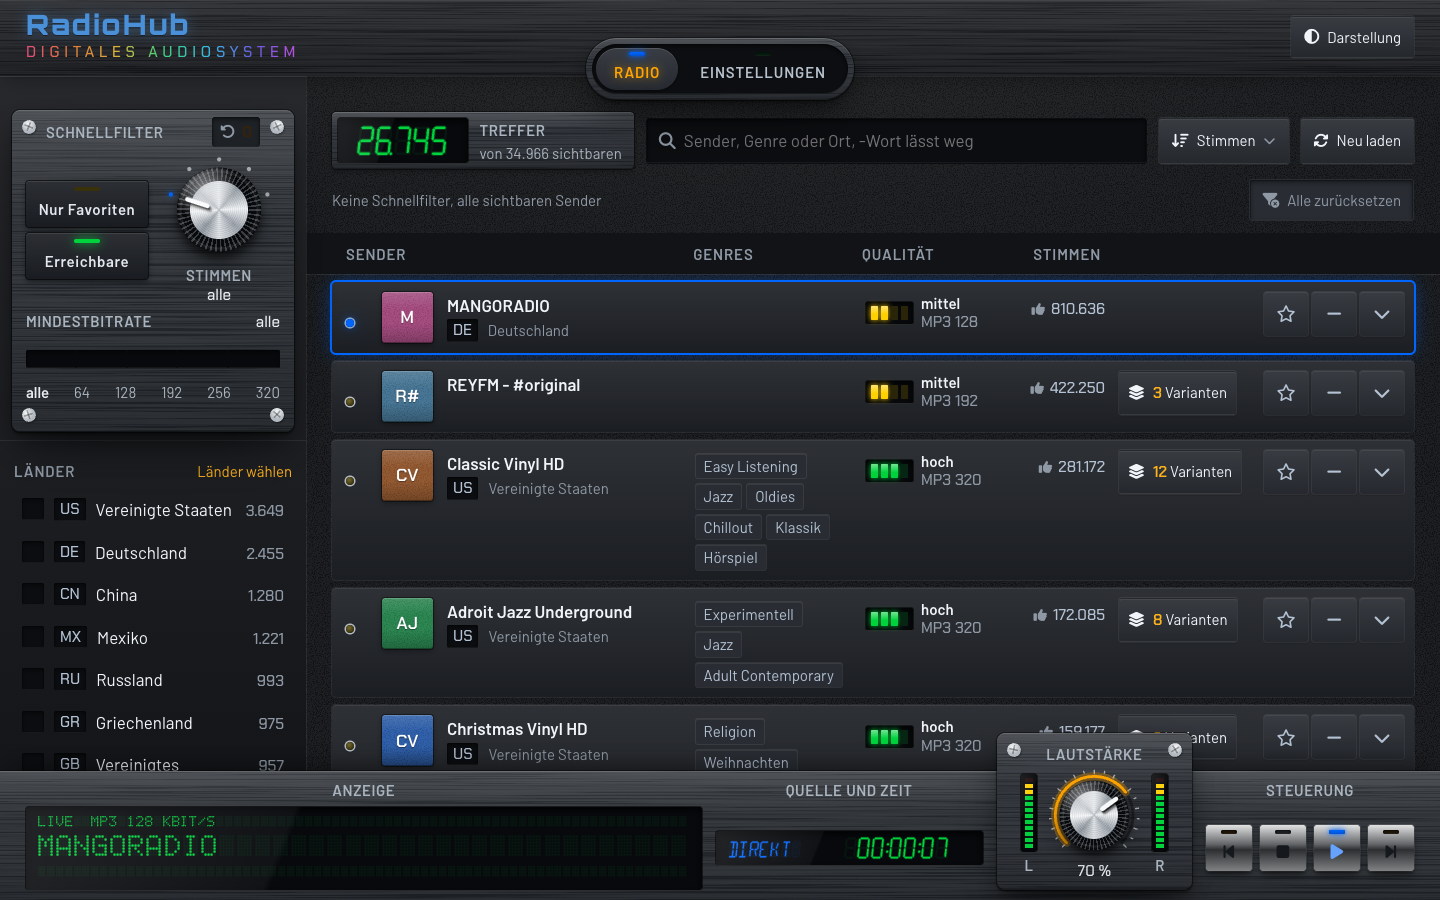
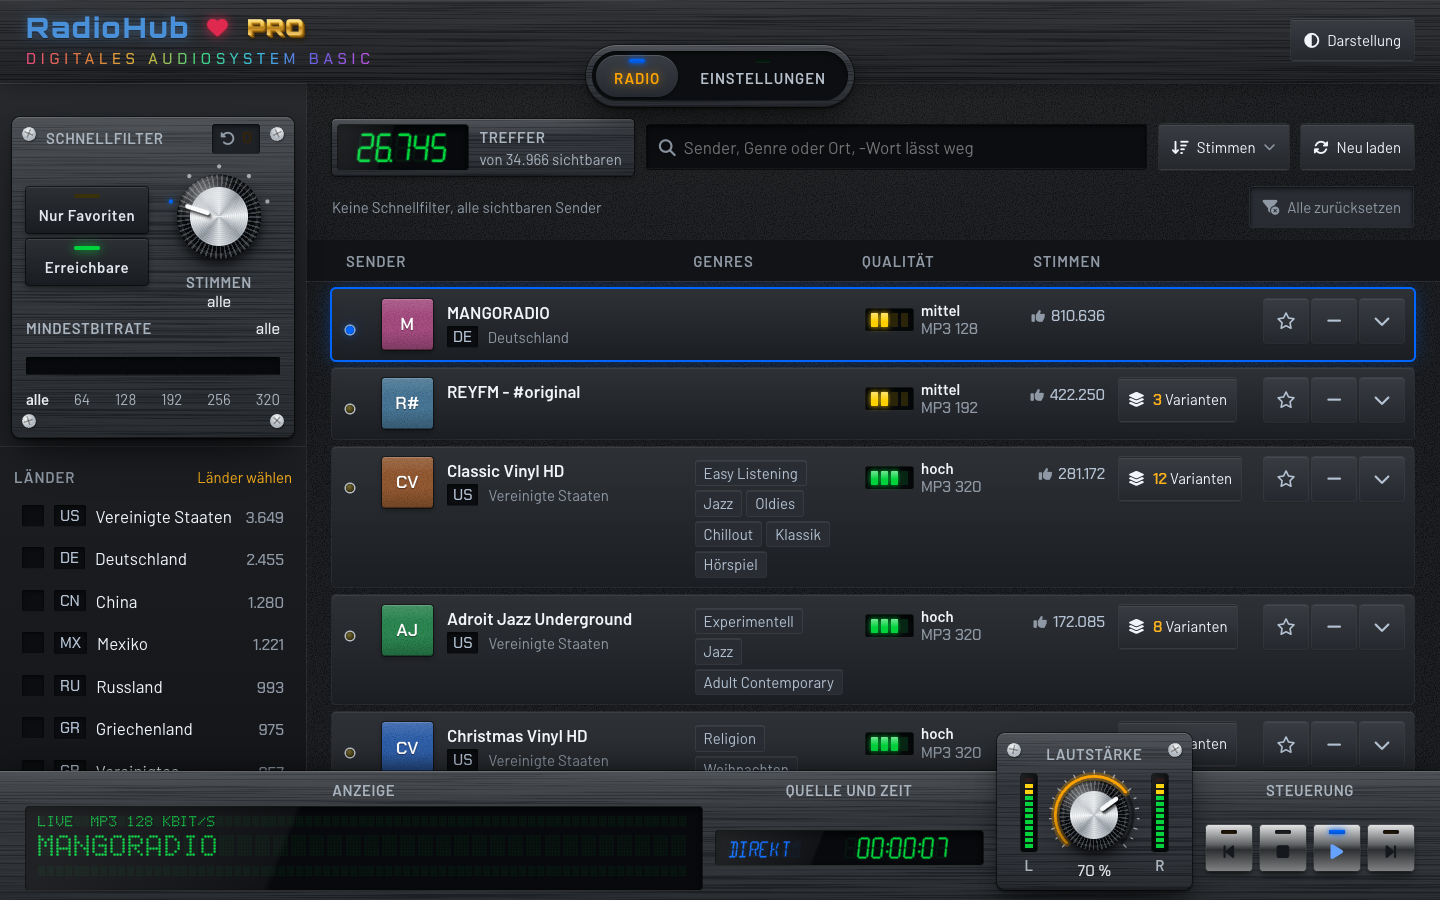
RAD-4: Zwei Ausgaben RadioHub PRO und Basic, PRO-Zeichen in goldenem 3D neben dem Herz
Nutzer 20.11.2026: Die Webversion ist die Basic-Version, PRO die volle Version mit Frontend und Backend; PRO
verweist auf deren Quellcode, das Zeichen in glänzendem, metallischem Gold, Schrift wie RadioHub, neben dem Herz, 3D.

Zeichen PRO (bausteine.css, Marken --rh-gold-*): Schrift des Schriftzugs, Goldfläche mit Lichtkante und Horizont,
Prägung aus gestaffelten Schatten in dunklerem Gold, Glanz beim Zeigen. PRO zeigt es als Zeichen der Ausgabe; Basic
als Verweis auf den Quellcode (lib/ausgabe.ts), dort führt das Herz zum Unterstützen und die Unterzeile sagt Basic.
Kopf mit Eigenschaft Ausgabe statt Backend. Basic heißt im Titel und Manifest "RadioHub Basic"; am Telefon steht der
Verweis in den Einstellungen, der Hinweis zum Wachhalten ohne Weckeransicht.

README mit beiden Ausgaben und neuen Bildern samt PRO-Zeichen.

diff --git a/frontend/src/schale/Kopf.svelte b/frontend/src/schale/Kopf.svelte
@@ -1,23 +1,26 @@
 <script lang="ts">
   // Kopf am Rechner wie im Entwurf (mockups/radio-filter/rechner.html): Schriftzug RadioHub mit Herz (führt zum
   // Unterstützen), Pillen-Navigation mit Tastenlicht, die in den Inhalt ragt, Status (Dienst und Ablage) und die Tafel
-  // Darstellung mit Konto. Das Tastenlicht zeigt, welcher Bereich gerade spielt (blau) oder aufnimmt (rot). Die
-  // Webversion (RAD-4) zeigt nur Radio und Einstellungen, ohne Status, Konto und Unterstützen (ohne Backend).
+  // Darstellung mit Konto. Das Tastenlicht zeigt, welcher Bereich gerade spielt (blau) oder aufnimmt (rot). Neben dem
+  // Herz das Zeichen PRO in Gold (Nutzer 20.11.2026). Die Basic-Webversion (RAD-4) zeigt nur Radio und Einstellungen,
+  // ohne Status und Konto; dort führt PRO zum Quellcode der vollen Version und das Herz zum Unterstützen.
   import { appState, actions } from "../lib/store.svelte.js";
   import { t } from "../lib/i18n.svelte.js";
   import * as sfx from "../lib/uiSounds.js";
   import Darstellung from "./Darstellung.svelte";
   import Konto from "./Konto.svelte";
+  import { PRO_QUELLCODE, UNTERSTUETZEN, type Ausgabe } from "../lib/ausgabe";
 
   type Bereich = "radio" | "recordings" | "podcasts" | "settings";
-  let { online, ablage, bereiche = ["radio", "recordings", "podcasts", "settings"], backend = true }: {
+  let { online, ablage, bereiche = ["radio", "recordings", "podcasts", "settings"], ausgabe = "pro" }: {
     online?: boolean | null;
     ablage?: { verbunden: boolean; meldung?: string } | null;
     /** angebotene Bereiche in der Navigation */
     bereiche?: Bereich[];
-    /** mit Backend: Status von Dienst und Ablage, Konto, Unterstützen */
-    backend?: boolean;
+    /** PRO mit Backend (Status von Dienst und Ablage, Konto), Basic als Webversion ohne */
+    ausgabe?: Ausgabe;
   } = $props();
+  const backend = $derived(ausgabe === "pro");
 
   const ALLE = [
     { id: "radio", text: "schale.radio", symbol: "fa-radio" },
@@ -68,8 +71,11 @@
   <div class="rh-marke">
     <span class="rh-marke-zeile"><a class="rh-logo" href="/radio" onclick={(e) => { e.preventDefault(); actions.navigateTo("/radio"); }}>RadioHub</a>
       {#if backend}<button class="rh-herz" type="button" title={t("app.unterstuetzenTitle")} aria-label={t("app.unterstuetzenTitle")}
-              onclick={() => { actions.navigateTo("/einstellungen/allgemein/bedanken"); sfx.select(); }}><i class="fa-solid fa-heart"></i></button>{/if}</span>
-    <span class="rh-unterzeile">{t("app.digitalAudioSystem")}</span>
+              onclick={() => { actions.navigateTo("/einstellungen/allgemein/bedanken"); sfx.select(); }}><i class="fa-solid fa-heart"></i></button>
+        <span class="rh-pro" title={t("schale.proTitel")}>PRO</span>
+      {:else}<a class="rh-herz" href={UNTERSTUETZEN} target="_blank" rel="noopener" title={t("app.unterstuetzenTitle")} aria-label={t("app.unterstuetzenTitle")}><i class="fa-solid fa-heart"></i></a>
+        <a class="rh-pro" href={PRO_QUELLCODE} target="_blank" rel="noopener" title={t("schale.proVerweis")} aria-label={t("schale.proVerweis")}>PRO</a>{/if}</span>
+    <span class="rh-unterzeile">{t("app.digitalAudioSystem")}{#if !backend}{` ${t("schale.basic")}`}{/if}</span>
   </div>
   <nav class="rh-nav" aria-label={t("schale.bereiche")}><div class="rh-nav-schiene">
     {#each BEREICHE as b, i (b.id)}

diff --git a/frontend/src/stil/bausteine.css b/frontend/src/stil/bausteine.css
@@ -15,12 +15,25 @@ html, body { height: 100%; overflow: hidden; }
 .rh-marke-zeile { display: flex; align-items: center; gap: 10px; }
 .rh-logo { font-family: var(--rh-schrift-logo); font-weight: 900; font-size: calc(var(--appname) + 7px); letter-spacing: .07em; line-height: 1.05; color: var(--rh-logo);
   text-shadow: var(--rh-logo-schein); white-space: nowrap; text-decoration: none; }
-.rh-herz { display: grid; place-items: center; inline-size: 36px; block-size: 36px; border: 0; padding: 0; border-radius: 50%; background: transparent; cursor: pointer;
+.rh-herz { text-decoration: none; display: grid; place-items: center; inline-size: 36px; block-size: 36px; border: 0; padding: 0; border-radius: 50%; background: transparent; cursor: pointer;
   color: var(--rh-herz); font-size: 19px; text-shadow: 0 0 calc(10px * var(--ak-leuchten)) color-mix(in srgb, var(--rh-herz) 75%, transparent), var(--rh-praegung); }
 .rh-herz i { animation: rh-pochen 2.2s ease-in-out infinite; }
 .rh-herz:hover i { animation: none; transform: scale(1.18); }
 .rh-herz:focus-visible { outline: 1px solid var(--ak-fokus-rand); outline-offset: 3px; }
 @keyframes rh-pochen { 0%, 100% { transform: scale(1); } 45% { transform: scale(1.14); } }
+/* Zeichen PRO neben dem Herz: Schrift wie RadioHub, Fläche Gold (Marken --rh-gold-*), Tiefe aus gestaffelten
+   Schatten in dunklerem Gold (3D-Prägung), ein Glanz zieht beim Zeigen darüber. In der Basic-Webversion ein Verweis
+   auf den Quellcode der vollen Version. */
+.rh-pro { position: relative; display: inline-block; font-family: var(--rh-schrift-logo); font-weight: 900; font-size: calc(var(--appname) + 1px);
+  letter-spacing: .06em; line-height: 1; text-decoration: none; white-space: nowrap; padding: 2px 1px 4px;
+  background-image: var(--rh-gold-glanz), var(--rh-gold-flaeche); background-size: 250% 100%, 100% 100%; background-position: 120% 0, 0 0;
+  background-repeat: no-repeat; -webkit-background-clip: text; background-clip: text; color: transparent; -webkit-text-fill-color: transparent;
+  filter: drop-shadow(1px 1px 0 var(--rh-gold-kante-1)) drop-shadow(1px 1px 0 var(--rh-gold-kante-2)) drop-shadow(1px 1px 0 var(--rh-gold-kante-3))
+          drop-shadow(1px 3px 3px var(--rh-gold-schatten));
+  transition: background-position .9s ease; }
+a.rh-pro:hover, a.rh-pro:focus-visible { background-position: -30% 0, 0 0; }
+a.rh-pro:focus-visible { outline: 1px solid var(--ak-fokus-rand); outline-offset: 3px; }
+@media (prefers-reduced-motion: reduce) { .rh-pro { transition: none; } }
 .rh-unterzeile { font-family: var(--schrift-zahl); font-size: var(--marke); letter-spacing: .32em; text-transform: uppercase; white-space: nowrap; color: var(--text-3); }
 :root[data-theme="dunkel"] .rh-unterzeile { -webkit-text-fill-color: transparent; background: var(--rh-regenbogen); -webkit-background-clip: text; background-clip: text; }
 

diff --git a/frontend/src/components/telefon/TelefonEinstellungen.svelte b/frontend/src/components/telefon/TelefonEinstellungen.svelte
@@ -14,6 +14,7 @@
   import Konto from '../../schale/Konto.svelte';
   import DateiReiter from '../radio/einstellungen/DateiReiter.svelte';
   import { senderquelle } from '../../lib/radio';
+  import { PRO_QUELLCODE } from '../../lib/ausgabe';
 
   const ZEITEN = zeitraumZeiten();
 
@@ -97,7 +98,7 @@
       <input name="wach-halten" type="checkbox" checked={wach.gewuenscht} disabled={!wach.unterstuetzt}
         onchange={(e) => wachHaltenSetzen(e.currentTarget.checked)} />
     </label>
-    <p class="tf-klein">{wach.unterstuetzt ? t('telefon.wachHaltenHinweis') : t('telefon.wachNichtMoeglich')}</p>
+    <p class="tf-klein">{wach.unterstuetzt ? t(angebot.wecker ? 'telefon.wachHaltenHinweis' : 'telefon.wachHaltenHinweisOhneWecker') : t('telefon.wachNichtMoeglich')}</p>
   </section>
 
   {#if angebot.wecker}
@@ -153,6 +154,13 @@
   <!-- Darstellung und Konto aus der Schale, wie am Rechner in der Tafel des Kopfs -->
   <section class="darstellung"><Darstellung />{#if angebot.backend}<Konto />{/if}</section>
   {#if senderquelle.faehig.datei}<DateiReiter />{/if}
+  {#if !angebot.backend}
+    <!-- Basic: Verweis auf die volle Version (Nutzer 20.11.2026) -->
+    <section class="tf-pro">
+      <a class="rh-pro" href={PRO_QUELLCODE} target="_blank" rel="noopener" aria-label={t('schale.proVerweis')}>PRO</a>
+      <p class="tf-klein">{t('schale.proVerweis')}</p>
+    </section>
+  {/if}
 
   {#if angebot.wecker}
   <section>
@@ -206,6 +214,7 @@
   h3 { margin: 0 0 8px; font-size: 17px; font-weight: 600; }
   .zu { width: 48px; height: 48px; border: none; border-radius: 12px; background: transparent; color: var(--t-text); font-size: 22px; }
   section { padding: 14px 0; border-bottom: 1px solid var(--rand); }
+  .tf-pro { display: grid; justify-items: start; gap: 6px; }
   .darstellung { display: grid; gap: 14px; }
   .tf-schalter { display: flex; align-items: center; justify-content: space-between; gap: 12px; min-height: 48px; font-size: 17px; }
   .tf-schalter input { width: 28px; height: 28px; accent-color: var(--t-akzent); flex: none; }

diff --git a/frontend/vite.config.ts b/frontend/vite.config.ts
@@ -33,12 +33,14 @@ const WEB_BASIS = "/RadioHub/";
 const WEB_SYMBOLE = ["favicon.ico", "favicon-32.png", "favicon.svg", "icon-192.png", "icon-512.png", "icon-maskable-192.png",
   "icon-maskable-512.png", "apple-touch-icon.png"];
 const WEB_DATEN = ORDNER("../web/daten");
+// Name der Webversion: RadioHub Basic (die volle Version ist RadioHub PRO, Nutzer 20.11.2026)
+const WEB_NAME = "RadioHub Basic";
 
 /** Manifest der Webversion: Pfade unter der Basis */
 function webManifest(): string {
   const m = JSON.parse(readFileSync(ORDNER("public/site.webmanifest"), "utf-8"));
   const unter = (p: string) => WEB_BASIS + p.replace(/^\//, "");
-  return JSON.stringify({ ...m, id: WEB_BASIS, start_url: unter("radio"), scope: WEB_BASIS,
+  return JSON.stringify({ ...m, name: WEB_NAME, short_name: WEB_NAME, id: WEB_BASIS, start_url: unter("radio"), scope: WEB_BASIS,
     icons: m.icons.map((i: { src: string }) => ({ ...i, src: unter(i.src) })) }, null, 2);
 }
 
@@ -50,7 +52,8 @@ function webDateien(): Plugin {
     name: "web-dateien",
     configResolved: (c) => { aus = c.build.outDir; },
     // Verweise der Startseite auf Symbole und Manifest unter die Basis (ohne öffentlichen Ordner setzt Vite sie nicht)
-    transformIndexHtml: (html) => html.replace(/href="\/([^"/]+\.(?:ico|png|svg|webmanifest))"/g, `href="${WEB_BASIS}$1"`),
+    transformIndexHtml: (html) => html.replace(/href="\/([^"/]+\.(?:ico|png|svg|webmanifest))"/g, `href="${WEB_BASIS}$1"`)
+      .replace("<title>RadioHub</title>", `<title>${WEB_NAME}</title>`).replace('content="RadioHub"', `content="${WEB_NAME}"`),
     configureServer(server) {
       server.middlewares.use((req, res, weiter) => {
         const pfad = (req.url ?? "").split("?")[0].replace(WEB_BASIS, "/");

diff --git a/frontend/src/stil/radio-marken.css b/frontend/src/stil/radio-marken.css
@@ -23,6 +23,15 @@
 :root {
   --rh-logo: #4a90d9;                          /* Schriftzug, dunkel */
   --rh-herz: #e0294f;                          /* Herz neben dem Schriftzug */
+  /* Zeichen PRO neben dem Herz (Nutzer 20.11.2026): poliertes Gold in 3D, Schrift wie RadioHub. Fläche mit
+     Lichtkante oben und Horizont in der Mitte, die Kanten der Prägung nach unten rechts dunkler, darunter ein
+     weicher Schatten. Glanz gehört hier zum Material, nicht zu einem Licht. */
+  --rh-gold-flaeche: linear-gradient(180deg, #fffbe6 0%, #ffe9a0 16%, #f2c64a 38%, #b47a16 50%, #d9a23a 58%, #ffe08a 82%, #fff4c4 100%);
+  --rh-gold-glanz: linear-gradient(115deg, transparent 30%, rgb(255 255 255 / .75) 46%, transparent 58%);
+  --rh-gold-kante-1: #c18a1e;
+  --rh-gold-kante-2: #94620d;
+  --rh-gold-kante-3: #6a4306;
+  --rh-gold-schatten: rgb(40 24 0 / .55);
   --rh-regenbogen: linear-gradient(90deg, #e04a78, #e07a3a, #d8b23a, #3cd27e, #39b8e0, #6a5ae0, #c450e0); /* Unterzeile im Dunkeln */
   --rh-anzeige: var(--led-gruen);              /* Leuchtschrift der Anzeigen (wie heute grün) */
   --rh-licht-aus: #07090b;                     /* Grund eines dunklen Lichts (aus geschaltete Leuchten) */

diff --git a/frontend/src/lib/locales/de.js b/frontend/src/lib/locales/de.js
@@ -45,6 +45,7 @@ export default {
     min: 'min',
     wachHalten: 'Bildschirm wach halten',
     wachHaltenHinweis: 'Braucht HTTPS; die Weckeransicht hält immer wach.',
+    wachHaltenHinweisOhneWecker: 'Hält den Bildschirm an, solange die Seite offen ist.',
     wachNichtMoeglich: 'Auf diesem Gerät nicht möglich',
     thema: 'Darstellung',
     hell: 'Hell',
@@ -878,6 +879,9 @@ export default {
 
   // === Schale: Kopf, Navigation, Darstellung, Konto (RAD-6) ===
   schale: {
+    proTitel: 'RadioHub PRO: die volle Version mit Aufnahmen, Podcasts, Zeitversatz und Backend',
+    proVerweis: 'RadioHub PRO: Quellcode der vollen Version mit Frontend und Backend',
+    basic: 'Basic',
     laedt: 'Lädt ...',
     bereiche: 'Bereiche',
     radio: 'Radio',

diff --git a/frontend/src/lib/locales/en.js b/frontend/src/lib/locales/en.js
@@ -45,6 +45,7 @@ export default {
     min: 'min',
     wachHalten: 'Keep screen awake',
     wachHaltenHinweis: 'Needs HTTPS; the alarm view always keeps awake.',
+    wachHaltenHinweisOhneWecker: 'Keeps the screen on while the page is open.',
     wachNichtMoeglich: 'Not possible on this device',
     thema: 'Appearance',
     hell: 'Light',
@@ -878,6 +879,9 @@ export default {
 
   // === Shell: header, navigation, display, account (RAD-6) ===
   schale: {
+    proTitel: 'RadioHub PRO: the full version with recordings, podcasts, time shift and backend',
+    proVerweis: 'RadioHub PRO: source code of the full version with frontend and backend',
+    basic: 'Basic',
     laedt: 'Loading ...',
     bereiche: 'Sections',
     radio: 'Radio',

diff --git a/frontend/src/lib/ausgabe.ts b/frontend/src/lib/ausgabe.ts
@@ -1,0 +1,8 @@
+// Ausgaben des RadioHub (Nutzer 20.11.2026): PRO ist die volle Version mit Frontend und Backend, Basic die Webversion
+// nur mit Radio. Die Basic verweist auf den Quellcode der PRO.
+export type Ausgabe = "pro" | "basic";
+
+/** Quellcode der PRO (volle Version mit Frontend und Backend) */
+export const PRO_QUELLCODE = "https://github.com/HalloWelt42/RadioHub";
+/** Unterstützen (Abschnitt der README) */
+export const UNTERSTUETZEN = `${PRO_QUELLCODE}#unterst%C3%BCtzen`;

diff --git a/frontend/src/schale/WebWurzel.svelte b/frontend/src/schale/WebWurzel.svelte
@@ -43,7 +43,7 @@
   <Telefon angebot={TELEFON} />
 {:else}
   <div class="rh-app">
-    <Kopf bereiche={[...BEREICHE]} backend={false} />
+    <Kopf bereiche={[...BEREICHE]} ausgabe="basic" />
     <main class="rh-mitte">
       {#if appState.activeTab === "settings"}
         <div class="rh-web-einst"><SetupRadio /></div>

diff --git a/README.md b/README.md
@@ -1,16 +1,20 @@
 # RadioHub - Digital Audio System
 
-Internetradio, Podcasts und Aufnahmen in der Optik einer HiFi-Anlage. Gedacht für einen Raspberry Pi im Heimnetz,
-läuft aber auf jedem Rechner mit Python und Node.js. Eine Webversion nur mit Radio läuft ohne Backend direkt im
-Browser.
+Internetradio, Podcasts und Aufnahmen in der Optik einer HiFi-Anlage, in zwei Ausgaben:
 
-**Webversion ausprobieren:** [hallowelt42.github.io/RadioHub](https://hallowelt42.github.io/RadioHub/)
+- **RadioHub PRO** ist die volle Version mit Frontend und Backend, gedacht für einen Raspberry Pi im Heimnetz,
+  läuft aber auf jedem Rechner mit Python und Node.js. Dieses Repo ist ihr Quellcode.
+- **RadioHub Basic** ist die Webversion nur mit Radio; sie läuft ohne Backend direkt im Browser.
 
-![RadioHub am Rechner, dunkel, beim Spielen](media/radio-dunkel.png)
+**RadioHub Basic ausprobieren:** [hallowelt42.github.io/RadioHub](https://hallowelt42.github.io/RadioHub/)
+
+![RadioHub PRO am Rechner, dunkel, beim Spielen](media/radio-dunkel.png)
 
 ---
 
 ## Funktionen
+
+Was hier steht, kann RadioHub PRO; was davon auch in Basic geht, steht unter [RadioHub Basic](#radiohub-basic).
 
 ### Radio
 
@@ -58,7 +62,7 @@ Die Kanzel unten ist gebaut wie ein Gerät: Anzeige, Quelle und Zeit, Lautstärk
 Eine eigene Oberfläche mit denselben Filtern: Liste mit Treffern, Filterblatt von unten, Spieler als Vollbild,
 quer die Weckeransicht für den Nachttisch (siehe unten).
 
-![Telefon: Liste und Filterblatt der vollen App, rechts die Webversion hell](media/telefon.png)
+![Telefon: Liste und Filterblatt von RadioHub PRO, rechts RadioHub Basic hell](media/telefon.png)
 
 ### Aufnahmen
 
@@ -90,12 +94,13 @@ Feeds abonnieren, Folgen streamen oder herunterladen.
 
 ---
 
-## Webversion
+## RadioHub Basic
 
 Die Webversion zeigt nur das Radio und braucht kein Backend: Sie läuft als statische Seite auf GitHub Pages unter
-[hallowelt42.github.io/RadioHub](https://hallowelt42.github.io/RadioHub/).
+[hallowelt42.github.io/RadioHub](https://hallowelt42.github.io/RadioHub/). Das goldene PRO neben dem Herz führt dort
+zu diesem Quellcode.
 
-![Webversion am Rechner](media/webversion.png)
+![RadioHub Basic am Rechner](media/webversion.png)
 
 - **Sender:** eine feste Liste der Sender, die direkt im Browser spielen (Strom über https, zuletzt erreichbar),
   aufbereitet wie in der vollen App; etwa 35.000 Sender
